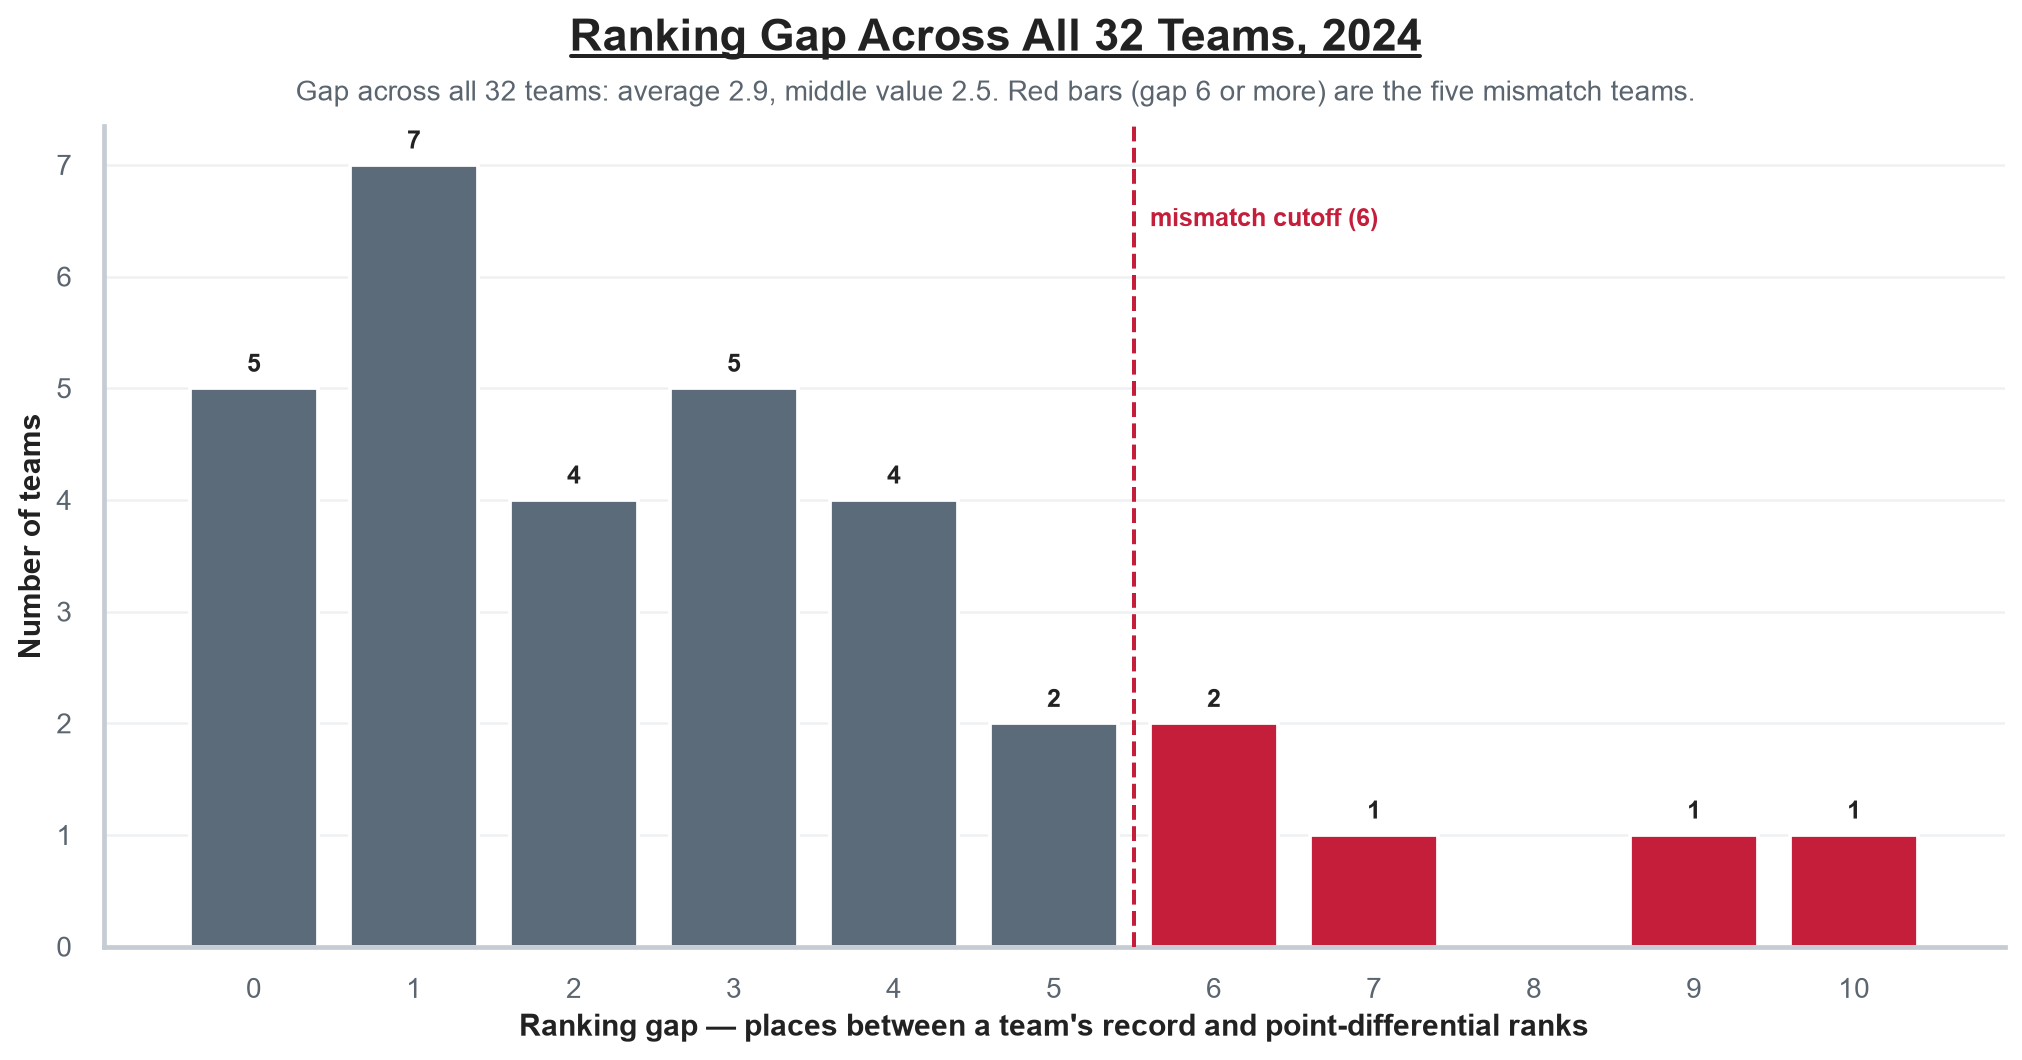
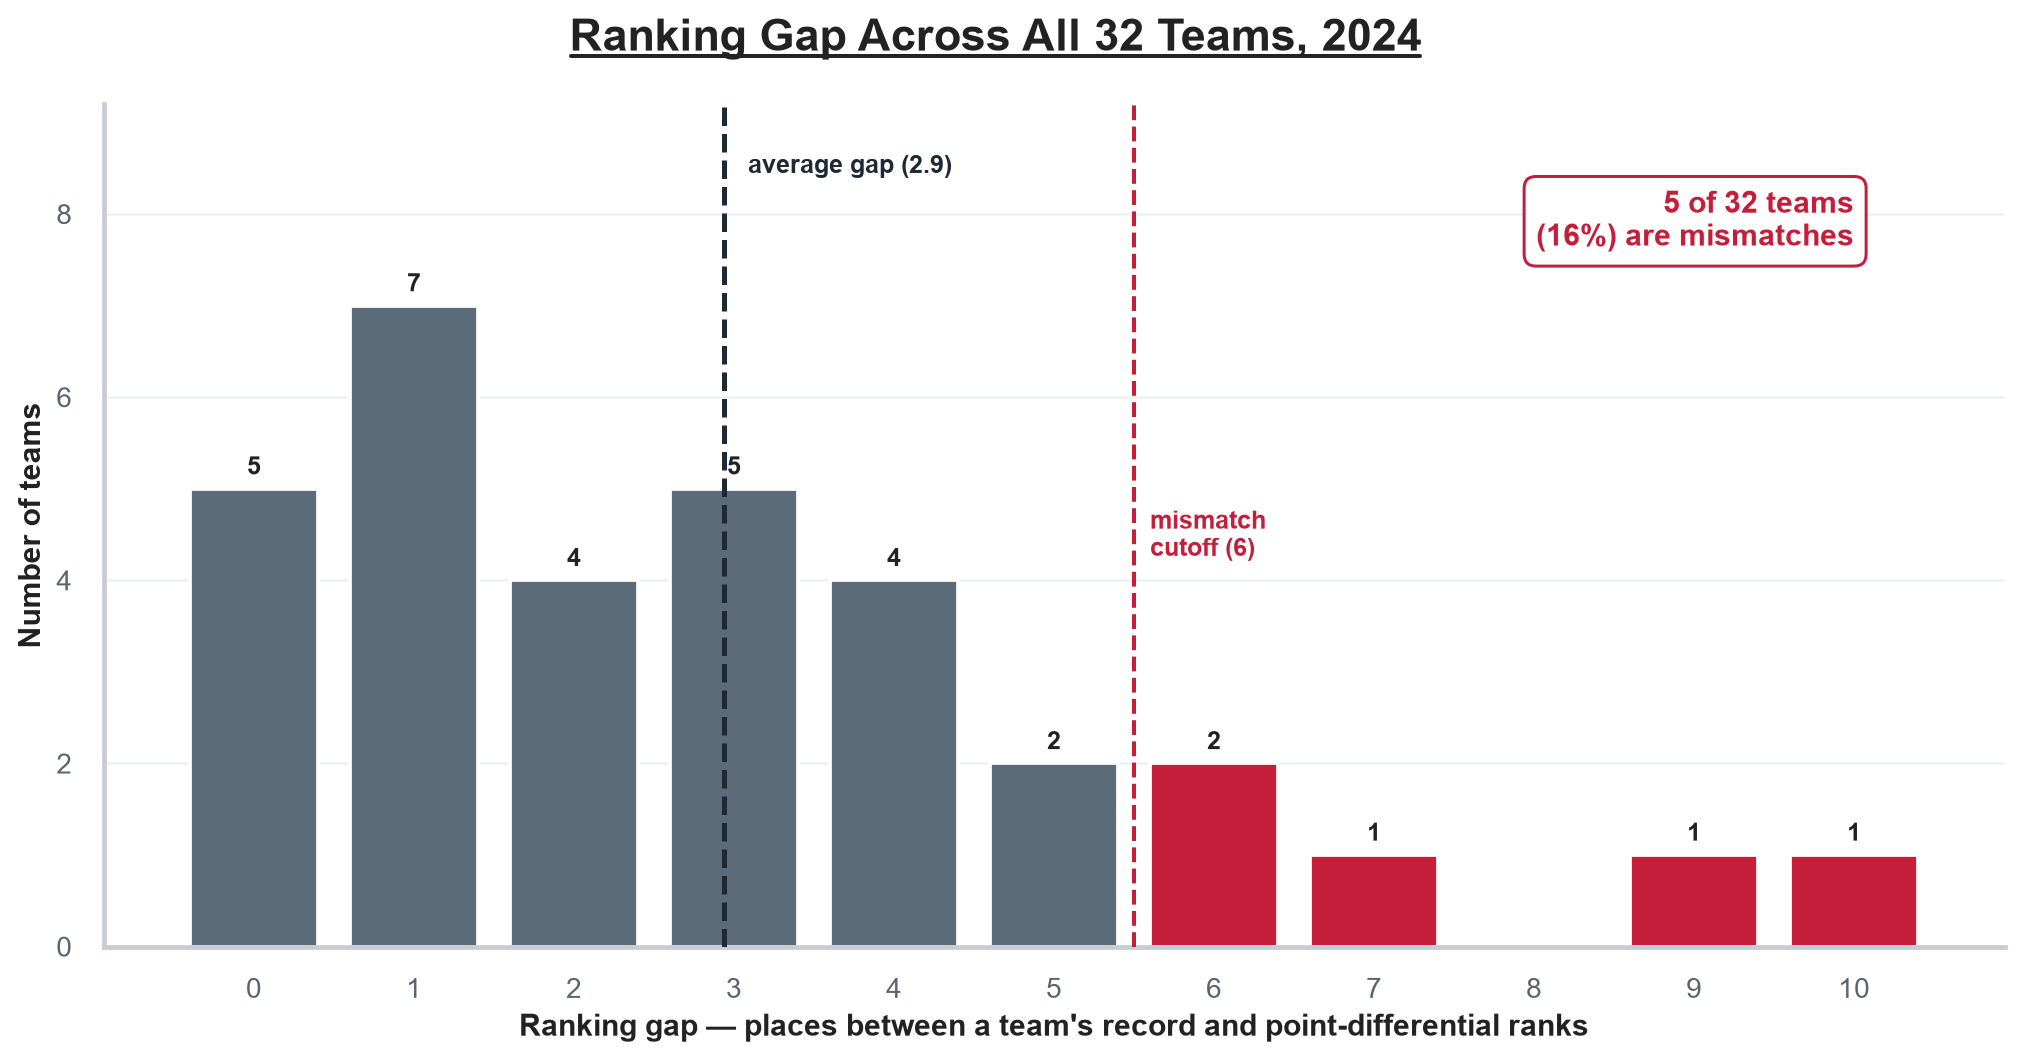
docs, comments, manifest

diff --git a/docs/stylesheets/extra.css b/docs/stylesheets/extra.css
@@ -1,8 +1,4 @@
 /* Slightly larger, more readable body text across the site. */
-:root {
-  --md-typeset-font-size: 0.9rem;
-}
-
 .md-typeset {
   font-size: 1.02rem;
   line-height: 1.7;
@@ -56,7 +52,7 @@
   background-color: rgba(255, 255, 255, 0.08);
 }
 
-/* -- Left navigation: larger, clearer link text -- */
+/* Left navigation: larger, clearer link text. */
 .md-nav {
   font-size: 0.9rem;
 }

diff --git a/scripts/record_vs_diff_charts.py b/scripts/record_vs_diff_charts.py
@@ -100,17 +100,17 @@ def style_slide_axes(ax: plt.Axes) -> None:
 
 
 def centered_title(
-    fig: plt.Figure, title: str, subtitle: str, top: float = 0.98
+    fig: plt.Figure, title: str, subtitle: str = "", top: float = 0.98
 ) -> None:
-    """Draw a bold title, an underline rule, and a subtitle as one tight block.
+    """Draw a bold title, an underline rule, and an optional subtitle as one block.
 
-    Both the title and the subtitle are drawn as figure text at fixed y
+    The title and (when given) the subtitle are drawn as figure text at fixed y
     positions just below the top of the figure, with the underline rule between
     them. Keeping both lines here (instead of a figure suptitle plus a separate
     per-axes title) means there is no empty band whose size depends on the axes
-    height or on `tight_layout` — the three pieces always sit together. Reserve
-    the matching top strip with `fig.subplots_adjust(top=...)` or a
-    `tight_layout(rect=...)` in the caller so the plot starts just below.
+    height or on `tight_layout` — the pieces always sit together. Reserve the
+    matching top strip with `fig.subplots_adjust(top=...)` in the caller so the
+    plot starts just below. Pass no subtitle for a title-only header.
 
     Matplotlib has no underline, so the rule is a short horizontal line drawn in
     figure coordinates under the title text.
@@ -123,8 +123,9 @@ def centered_title(
     line = plt.Line2D([0.30, 0.70], [rule_y, rule_y], transform=fig.transFigure,
                       color=TITLE_COLOR, linewidth=1.6)
     fig.add_artist(line)
-    fig.text(0.5, subtitle_y, subtitle, fontsize=11, color=MUTED_TEXT,
-             ha="center", va="top", wrap=True)
+    if subtitle:
+        fig.text(0.5, subtitle_y, subtitle, fontsize=11, color=MUTED_TEXT,
+                 ha="center", va="top", wrap=True)
 
 
 def save_figure(fig: plt.Figure, name: str) -> Path:
@@ -346,6 +347,12 @@ def plot_rank_gap_distribution(teams: pd.DataFrame) -> Path:
     sns.set_theme(style="white", context="talk")
     counts = teams["rank_gap"].value_counts().sort_index()
 
+    # Stats computed from the data so the labels never drift from the chart.
+    total = len(teams)
+    n_mismatch = int((teams["rank_gap"] >= 6).sum())
+    pct_mismatch = round(100 * n_mismatch / total)
+    mean_gap = teams["rank_gap"].mean()
+
     fig, ax = plt.subplots(figsize=(11.8, 6.0))
     fig.patch.set_facecolor("white")
     colors = [MISMATCH_COLOR if g >= 6 else MATCH_COLOR for g in counts.index]
@@ -354,24 +361,43 @@ def plot_rank_gap_distribution(teams: pd.DataFrame) -> Path:
         ax.text(g, c + 0.1, str(int(c)), ha="center", va="bottom",
                 fontsize=10, color=TITLE_COLOR, fontweight="bold")
 
+    # Headroom above the tallest bar for the reference-line labels and callout.
+    y_top = counts.values.max() + 2.2
+    ax.set_ylim(0, y_top)
+
+    # Average gap as a single reference line (the median adds little for this
+    # right-skewed count, so it is left off). Label sits to the right of the
+    # line, like the cutoff label, and above the bars so it stays clear of the
+    # nearby count.
+    stat_color = "#1f2933"
+    ax.axvline(mean_gap, color=stat_color, linewidth=2.0, linestyle="--", zorder=4)
+    ax.text(mean_gap + 0.15, y_top * 0.94, f"average gap ({mean_gap:.1f})",
+            color=stat_color, fontsize=10, fontweight="bold",
+            ha="left", va="top")
+
     # The cutoff sits at 5.5 so the line falls between the gray and red bars.
     ax.axvline(5.5, color=MISMATCH_COLOR, linewidth=1.6, linestyle="--", zorder=3)
-    ax.text(5.6, ax.get_ylim()[1] * 0.9, "mismatch cutoff (6)",
+    ax.text(5.6, y_top * 0.52, "mismatch\ncutoff (6)",
             color=MISMATCH_COLOR, fontsize=10, fontweight="bold", va="top")
+
+    # Headline metric over the red region: how many teams cleared the cutoff.
+    ax.text(
+        counts.index.max(), y_top * 0.9,
+        f"{n_mismatch} of {total} teams\n({pct_mismatch}%) are mismatches",
+        color=MISMATCH_COLOR, fontsize=12, fontweight="bold", ha="right", va="top",
+        bbox={"boxstyle": "round,pad=0.4", "facecolor": "white",
+              "edgecolor": MISMATCH_COLOR, "linewidth": 1.2},
+    )
 
     ax.set_xlabel("Ranking gap \u2014 places between a team's record and point-differential ranks",
                   fontsize=12, color=TITLE_COLOR, fontweight="bold")
     ax.set_ylabel("Number of teams", fontsize=12, color=TITLE_COLOR, fontweight="bold")
-    centered_title(
-        fig,
-        "Ranking Gap Across All 32 Teams, 2024",
-        "Gap across all 32 teams: average 2.9, middle value 2.5. Red bars (gap 6 or more) are the "
-        "five mismatch teams.",
-    )
+    centered_title(fig, "Ranking Gap Across All 32 Teams, 2024")
     ax.set_xticks(range(0, int(counts.index.max()) + 1))
     ax.grid(axis="y", color="#eef1f4", linewidth=1)
     style_slide_axes(ax)
-    fig.subplots_adjust(top=0.88, bottom=0.12, left=0.08, right=0.975)
+    # Title-only header (no subtitle), so a bit more plot height.
+    fig.subplots_adjust(top=0.90, bottom=0.12, left=0.08, right=0.975)
     return save_figure(fig, "rank-gap-distribution.png")
 
 

diff --git a/scripts/engineered_features_chart.py b/scripts/engineered_features_chart.py
@@ -235,7 +235,7 @@ def plot_feature_map(kc: pd.Series, out_path: Path = OUT_PATH) -> Path:
     fig.text(
         0.025,
         0.03,
-        "Built in scripts/record_vs_diff.py. Per-game point_diff lives only in memory; this chart uses the season total.",
+        "Built in scripts/record_vs_diff.py",
         fontsize=9,
         color=MUTED_TEXT,
         ha="left",

diff --git a/docs/exploratory-data-analysis.md b/docs/exploratory-data-analysis.md
@@ -13,7 +13,7 @@ For how each column is built, see [data preparation and feature engineering](fea
 
 **The main question:** if you rank all 32 teams by record, and separately by point differential, how far does a team move between the two lists?
 
-**The answer:** *5 of 32 teams move at least 6 places.* In all five, the team ranks **higher by record than by point differential** — it won often, but its season point differential was more modest than its record suggests.
+**The answer:** *5 of 32 teams move at least 6 places — 16%, or about 1 in 6.* In all five, the team ranks **higher by record than by point differential** — it won often, but its season point differential was more modest than its record suggests. That share is small enough that the two measures usually agree, but large enough that a mismatch is not a fluke: roughly one team in six lands in a very different place depending on which measure you lead with.
 
 The two measures count different things, and that is the whole reason they can rank the same team in very different places:
 
@@ -33,9 +33,9 @@ Tied teams share a place. Kansas City and Detroit both went 15–2, so both are 
 
 A team is a **mismatch** when it sits **at least 6 places apart** on the two lists (about a fifth of a 32-team league). Six is simply the cutoff chosen so that small, one- or two-place differences are not counted. Both lists are valid summaries; the gap just flags where they diverge. This covers the whole regular season: 18 weeks, 17 games per team, taken as one finished period.
 
-Across all 32 teams, the typical move between the two lists is small — **about 3 places** (average 2.9, middle value 2.5). The mismatch cutoff sits at 6. The chart below shows the full spread: most teams sit at a gap of 0–5, and only five reach 6 or more.
+Across all 32 teams, the typical move between the two lists is small — the **average gap is 2.9 places**. The mismatch cutoff sits at 6. The chart below shows the full spread: most teams sit at a gap of 0–5, and only five reach 6 or more.
 
-![Bar chart counting how many teams fall at each ranking-gap value from 0 to 10. Bars up to 5 are gray; bars at 6 and above are red, with a dashed line marking the mismatch cutoff of 6.](figures/rank-gap-distribution.png)
+![Bar chart counting how many teams fall at each ranking-gap value from 0 to 10. Bars up to 5 are gray; bars at 6 and above are red, with a dashed line marking the mismatch cutoff of 6. A dashed reference line marks the average gap (2.9), and a callout notes that 5 of 32 teams (16%) are mismatches.](figures/rank-gap-distribution.png)
 
 ```mermaid
 flowchart TD
@@ -127,6 +127,6 @@ The responsible practice is to **show more than one measure, name what each leav
 
 - Record and point differential are two summaries of the **same 272 games**; each counts a different detail.
 - **Neither number, on its own, is how good a team was.** Opponent, injuries, close games, and late scoring are outside both.
-- The 2024 mismatch group is *five teams, all ranking higher by record than by point differential.* The sharpest same-record contrast is **KC 15–2 vs DET 15–2**.
+- The 2024 mismatch group is *five teams — 16% of the league, about 1 in 6 — all ranking higher by record than by point differential.* The sharpest same-record contrast is **KC 15–2 vs DET 15–2**.
 
 **See also:** [data preparation and feature engineering](feature-engineering.md) · [reproduction pipeline](reproduction-pipeline.md) · [conclusions](conclusions.md) · [README](../README.md) · [walkthrough](../notebooks/2024-ranking-walkthrough.ipynb)

diff --git a/design-manifest.md b/design-manifest.md
@@ -1,0 +1,30 @@
+# Design Manifest
+
+### 🎥 Presentation: **[youtu.be/sqv3Oi22v5w](https://youtu.be/sqv3Oi22v5w?si=4DbluZcx6Qlugwai)**
+
+This manifest documents the AI tooling used to produce the project and the role each tool served across the development process. It is limited to tooling; the analytical methodology and findings are documented on the [project site](https://jconnors23.github.io/510-m1-nfl-data-storytelling/).
+
+## Tooling Summary
+
+| Stage | Tool | Function |
+| :--- | :--- | :--- |
+| Ideation | Gemini | Problem framing, scope definition, and dataset identification |
+| Implementation | Cursor | Feature-engineering code, data transformation, and figure generation |
+| Documentation | Kiro | Documentation site, README, code comments, and project formalization |
+| Presentation visuals | Gemini, ChatGPT | Image assets for the presentation slides |
+
+## Ideation — Gemini
+
+Gemini was used for problem framing and dataset identification. It supported the reduction of a broad subject area (NFL performance data) to a single, testable question: whether a team's win–loss record and its point differential rank the same team differently. Gemini was used to define the scope that constrains the rest of the project — the 2024 regular season, all 32 teams, two independent rankings, and the gap between them. It was also used to identify publicly available datasets suitable for answering that question, which led to the selection of the nflverse schedules release as the data source.
+
+## Implementation — Cursor
+
+Cursor was used to author the analysis code. Its outputs include the data-acquisition script that retrieves the nflverse schedules, the transformation logic that reshapes 272 game records into a 32-team table, and the derived columns on which the analysis depends: the two rankings, the ranking gap, and the mismatch flag. Cursor also authored the plotting code that generates every figure — the record-versus-point-differential scatter, the mismatch dumbbell, the ranking-gap distribution, and the feature-map chart. All executable code and data transformations originate from Cursor.
+
+## Documentation — Kiro
+
+Kiro was used to produce the documentation from the completed code and data. Its work covers the [MkDocs documentation site](https://jconnors23.github.io/510-m1-nfl-data-storytelling/) (project overview, feature engineering, reproduction pipeline, exploratory data analysis, and conclusions), the repository README, and the code comments. In addition to authoring prose, Kiro was used to formalize the project's structure and enforce consistency: establishing a single reading order, consolidating duplicated logic and figures, verifying quoted statistics against the source table, correcting figure captions and chart labels, and validating the site with a strict MkDocs build. All version-control operations were reserved to the author; Kiro modified working files only.
+
+## Presentation Visuals — Gemini and ChatGPT
+
+Gemini and ChatGPT were used to generate the image assets that support the presentation slides. The analytical charts on the slides are the figures produced by Cursor; the tool-generated images provide the surrounding visual design only.

diff --git a/docs/index.md b/docs/index.md
@@ -5,9 +5,13 @@ hide:
 
 # Project Overview
 
+### 🎥 Watch the presentation: **[youtu.be/sqv3Oi22v5w](https://youtu.be/sqv3Oi22v5w?si=4DbluZcx6Qlugwai)**
+### 💻 Code and data: **[GitHub repository](https://github.com/jconnors23/510-m1-nfl-data-storytelling)**
+### 🤖 How AI was used: **[design manifest](https://github.com/jconnors23/510-m1-nfl-data-storytelling/blob/main/design-manifest.md)**
+
 Win–loss record and point differential (total points scored minus total points allowed) are two standard measures of a football team's season. This project ranks all 32 teams by each measure for the 2024 regular season and identifies the teams whose two rankings differ by at least six places. The conclusion is straightforward: on its own, neither measure fully captures how good a team was.
 
-This is the documentation site. The repository `README.md` has the commands to run and the list of files; the pages below carry the exploratory data analysis (EDA), the engineered features, and the story the data tells.
+This is the documentation site. The pages below carry the exploratory data analysis (EDA), the engineered features, and the story the data tells; the [GitHub repository](https://github.com/jconnors23/510-m1-nfl-data-storytelling) has the code, the data, and the commands to run it.
 
 ## Audience and Motivation
 
@@ -23,7 +27,7 @@ Every completed 2024 regular-season game and its final score, from the public nf
 flowchart TD
   rel["nflverse schedules release<br/>(games.csv)"] -->|pull_schedules.py| games["data/raw/nflverse_2024_reg_games.csv<br/>272 games"]
   games -->|record_vs_diff.py| table["data/processed/2024_record_vs_diff.csv<br/>32 teams"]
-  table -->|record_vs_diff_charts.py| charts["data/figures/<br/>scatter + dumbbell"]
+  table -->|record_vs_diff_charts.py| charts["data/figures/<br/>scatter, dumbbell, gap distribution"]
   table -->|engineered_features_chart.py| feat["data/figures/<br/>feature chart"]
 ```
 

diff --git a/docs/conclusions.md b/docs/conclusions.md
@@ -11,8 +11,8 @@ For the 2024 regular season, it ranked all 32 NFL teams two ways — **by win–
 
 ## Key Findings
 
-- **Most teams rank in a similar place on both lists.** The typical move is about 3 places (average 2.9, middle value 2.5).
-- **Five teams ranked 6 places or more apart:** KC, CAR, LA, MIN, and HOU. In every one of the five, the team ranked **higher by record than by point differential** — it won often, but its season point differential was smaller than its record suggests.
+- **Most teams rank in a similar place on both lists.** The average gap between the two rankings is 2.9 places.
+- **Five of the 32 teams — 16%, about 1 in 6 — ranked 6 places or more apart:** KC, CAR, LA, MIN, and HOU. In every one of the five, the team ranked **higher by record than by point differential** — it won often, but its season point differential was smaller than its record suggests. That is a meaningful share: mismatches are the exception, not a one-off.
 - **The clearest single example is two 15–2 teams.** *Kansas City* went 15–2 with a point differential of **+59** (11th in the league), while *Detroit* went 15–2 with **+222** (1st). Same record, very different point differentials.
 
 ## How to Apply These Results

diff --git a/README.md b/README.md
@@ -1,6 +1,8 @@
 # 2024 NFL Record vs. Point Differential
 
 ### 📊 Read the full write-up: **[jconnors23.github.io/510-m1-nfl-data-storytelling](https://jconnors23.github.io/510-m1-nfl-data-storytelling/)**
+### 🎥 Watch the presentation: **[youtu.be/sqv3Oi22v5w](https://youtu.be/sqv3Oi22v5w?si=4DbluZcx6Qlugwai)**
+### 🤖 How AI was used: **[design manifest](design-manifest.md)**
 
 Win–loss record and point differential (total points scored minus total points allowed) are two standard measures of a football team's season, and they can rank the same team quite differently. This project ranks all 32 teams by each measure for the 2024 regular season and identifies the five teams whose rankings differ by at least six places. Kansas City, for instance, ranked 1st by record (15–2) but 11th by point differential (+59). The conclusion is straightforward: on its own, neither measure fully captures how good a team was.
 

diff --git a/docs/reproduction-pipeline.md b/docs/reproduction-pipeline.md
@@ -70,6 +70,6 @@ flowchart TD
   table --> map["Feature chart: one row per column"]
 ```
 
-Across all 32 teams the average `rank_gap` is **2.9** and the middle value is **2.5**. The mismatch cutoff is a gap of **6** or more.
+Across all 32 teams the average `rank_gap` is **2.9**. The mismatch cutoff is a gap of **6** or more.
 
 **See also:** [data preparation and feature engineering](feature-engineering.md) · [exploratory data analysis](exploratory-data-analysis.md) · [conclusions](conclusions.md) · [README](../README.md) · [source citation](../data/source-citation.md)
